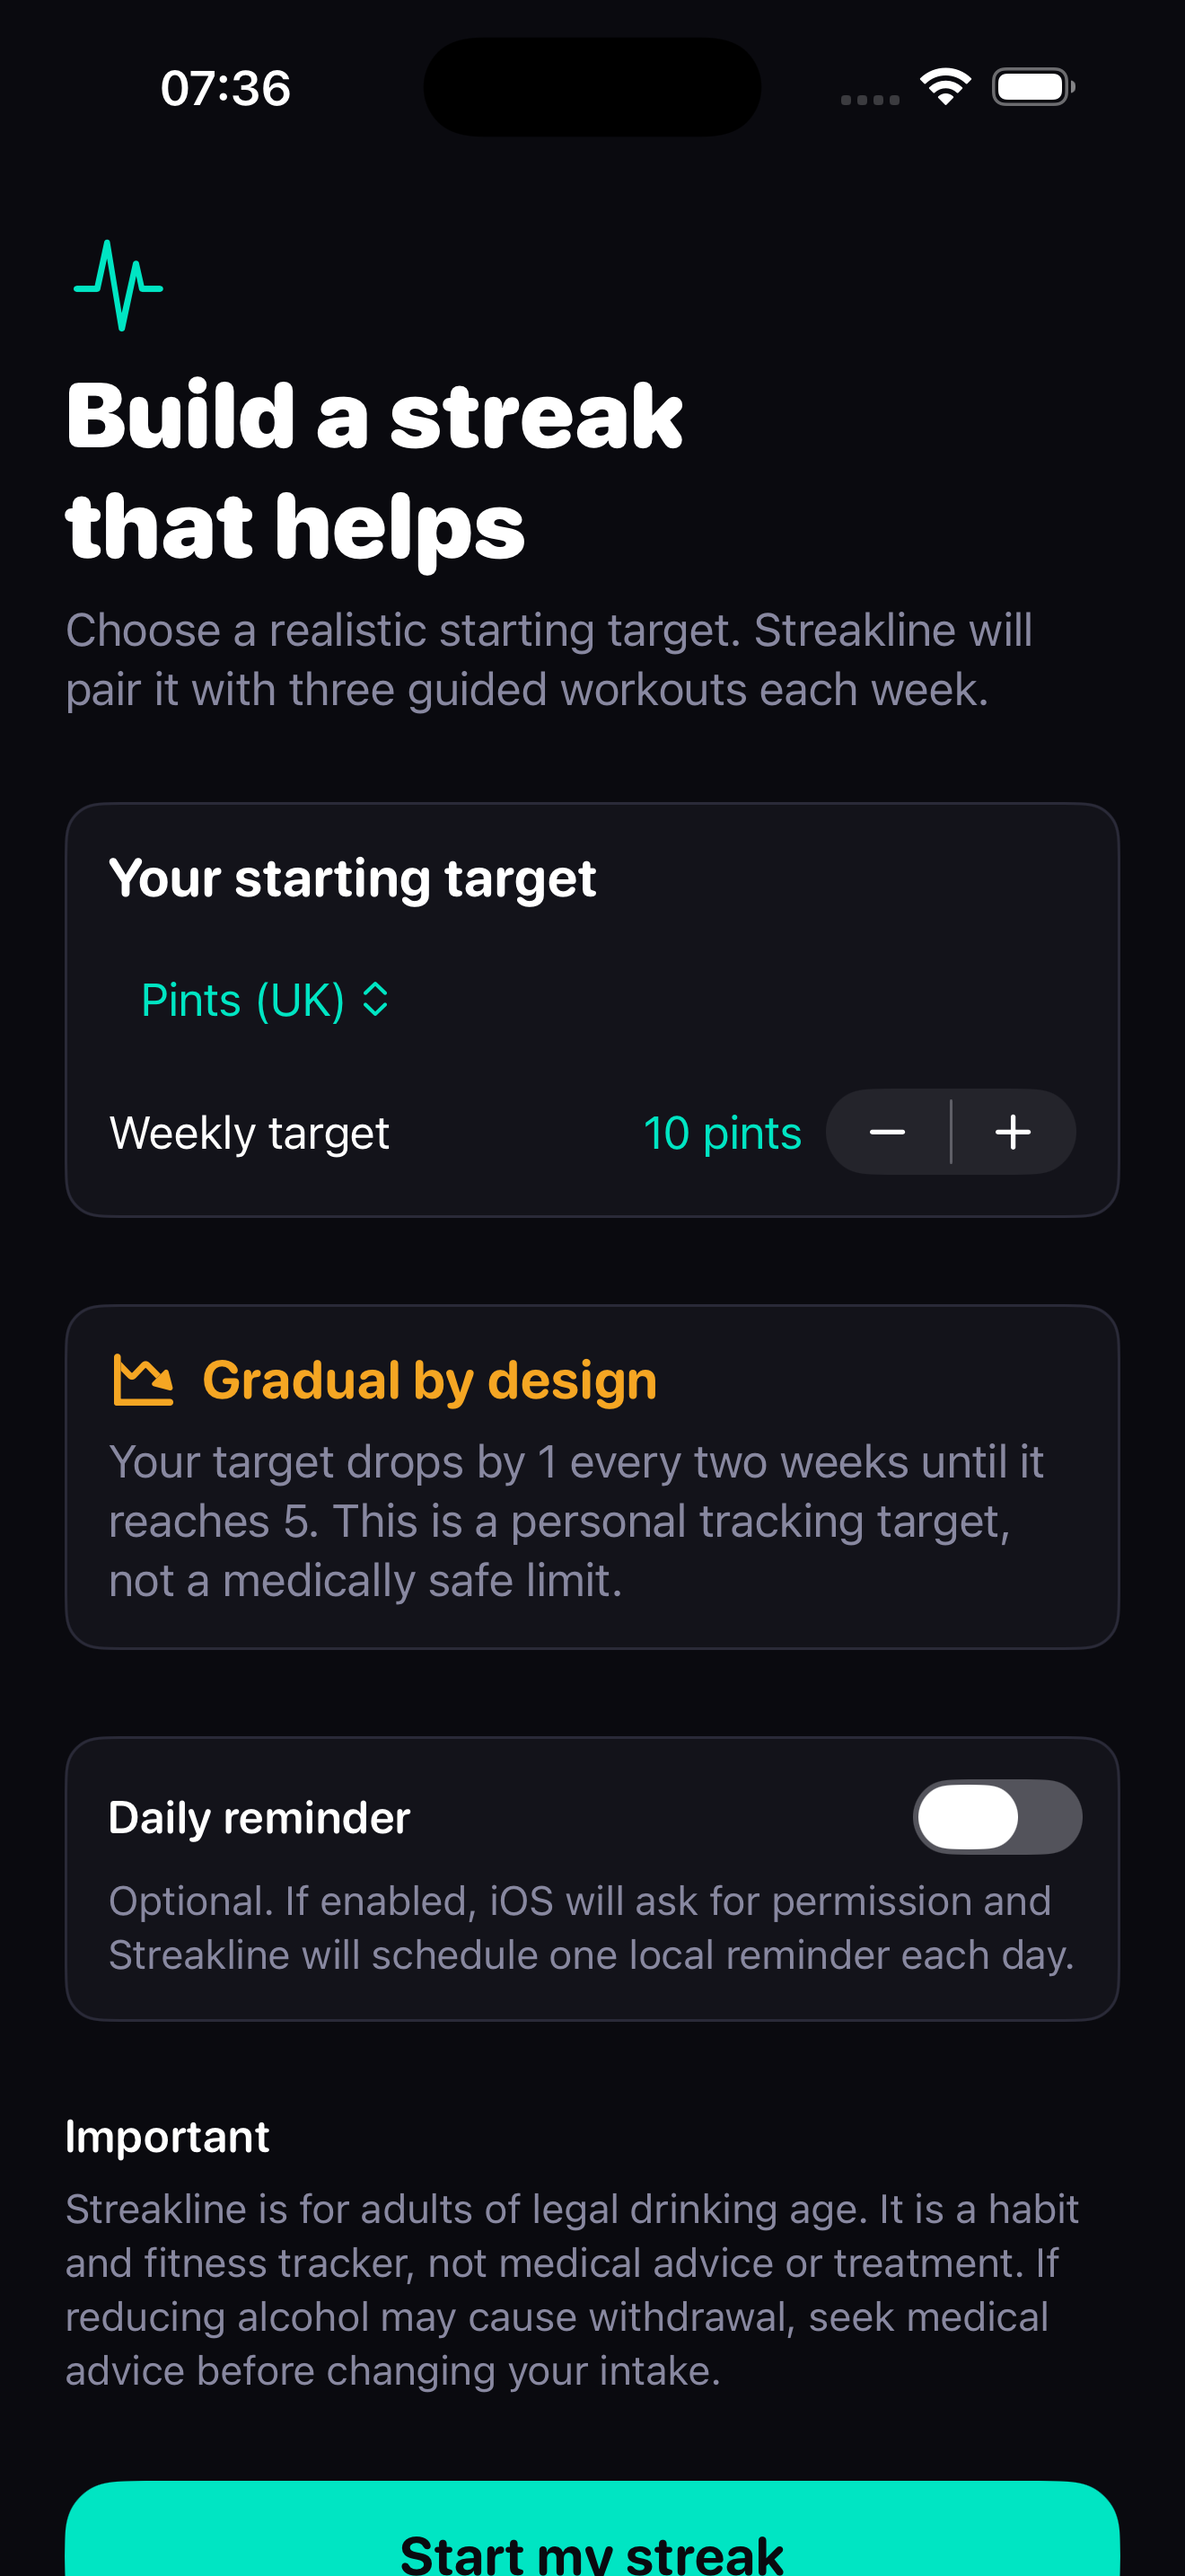
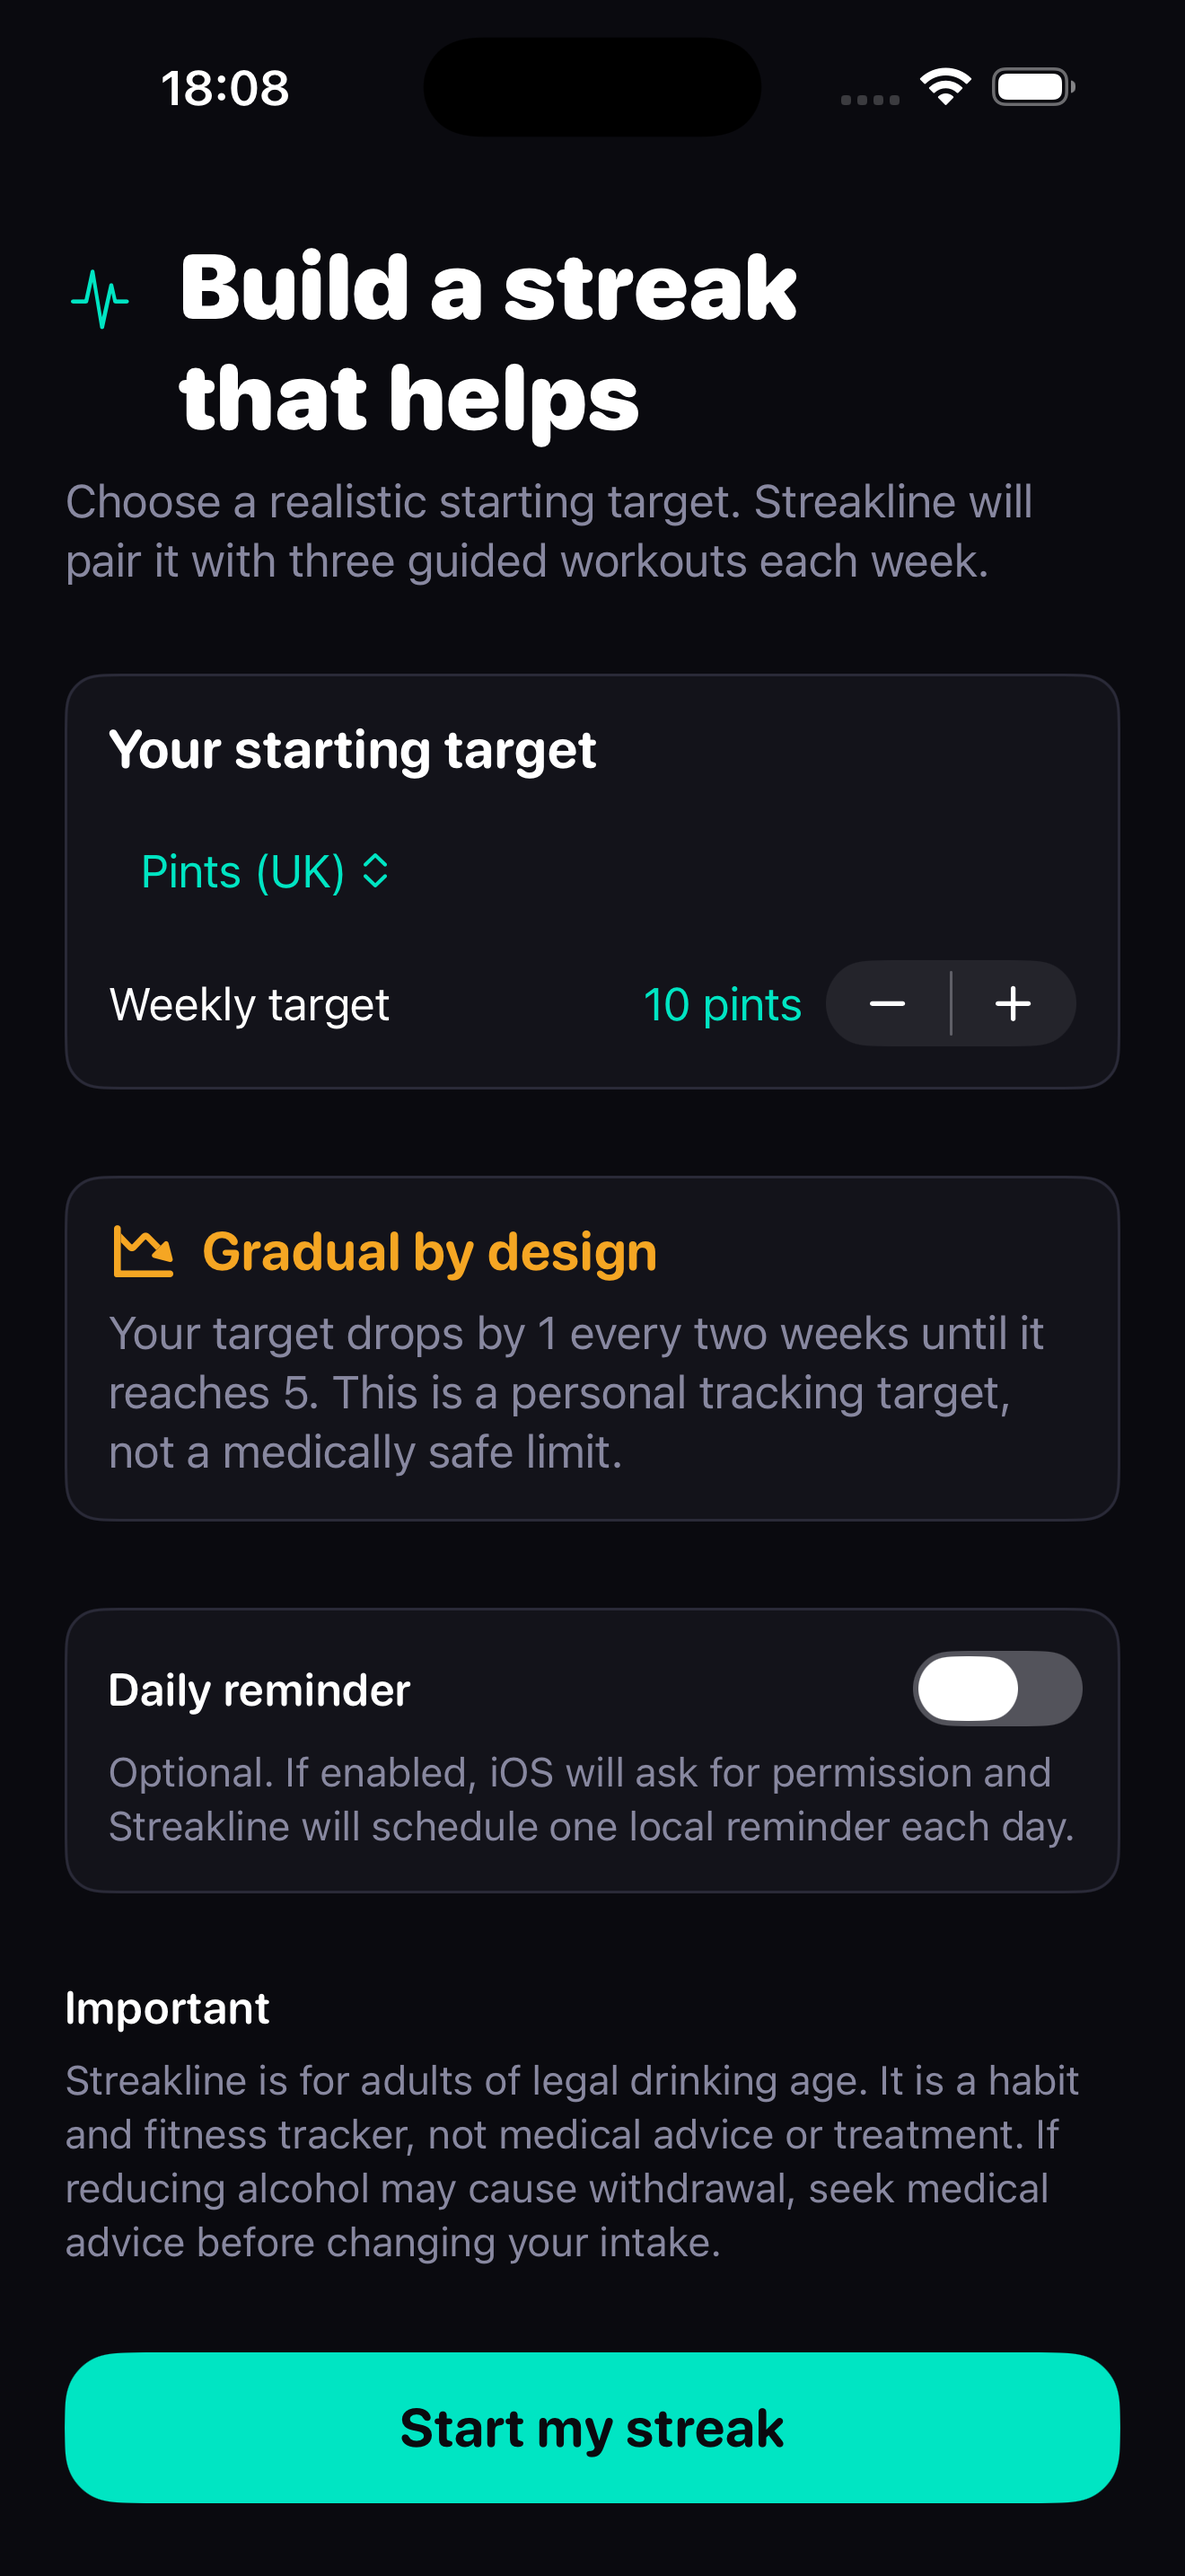
App store readiness

diff --git a/Streakline/Streakline/Views/OnboardingView.swift b/Streakline/Streakline/Views/OnboardingView.swift
@@ -38,13 +38,15 @@ struct OnboardingView: View {
 
     private var header: some View {
         VStack(alignment: .leading, spacing: DesignSystem.Spacing.sm) {
-            Image(systemName: "waveform.path.ecg")
-                .font(.largeTitle)
-                .foregroundStyle(DesignSystem.Colors.teal)
-                .accessibilityHidden(true)
-            Text("Build a streak that helps")
-                .font(DesignSystem.Typography.displayMedium)
-                .foregroundStyle(DesignSystem.Colors.textPrimary)
+            HStack(alignment: .firstTextBaseline, spacing: DesignSystem.Spacing.md) {
+                Image(systemName: "waveform.path.ecg")
+                    .font(.title2)
+                    .foregroundStyle(DesignSystem.Colors.teal)
+                    .accessibilityHidden(true)
+                Text("Build a streak that helps")
+                    .font(DesignSystem.Typography.displayMedium)
+                    .foregroundStyle(DesignSystem.Colors.textPrimary)
+            }
             Text("Choose a realistic starting target. Streakline will pair it with three guided workouts each week.")
                 .font(DesignSystem.Typography.body)
                 .foregroundStyle(DesignSystem.Colors.textSecondary)

diff --git a/docs/app-store/v1.0/review-notes.md b/docs/app-store/v1.0/review-notes.md
@@ -43,8 +43,8 @@ locally through iOS.
 
 ## Reviewer contact
 
-- **Contact name:** `[CONFIRM APPOINTED REVIEW CONTACT]`
-- **Email:** `support@streakline.fit`
-- **Phone:** `[CONFIRM REVIEW PHONE NUMBER]`
+- **Contact name:** Mihai Garda Popescu
+- **Email:** `mihai.garda.popescu@gmail.com`
+- **Phone:** `+353852832124`
 
 Verify the contact can answer during the review window before submission.

diff --git a/docs/app-store/v1.0/metadata.md b/docs/app-store/v1.0/metadata.md
@@ -5,11 +5,11 @@
 - **Name:** Streakline
 - **Platform:** iOS (iPhone)
 - **Version:** 1.0
-- **Build:** 1
+- **Build:** 3
 - **Bundle ID:** `com.mihaigarda.threshold`
 - **Primary category:** Health & Fitness
 - **Secondary category:** Lifestyle
-- **Copyright:** `2026 [CONFIRM LEGAL NAME]`
+- **Copyright:** `2026 Mihai Garda Popescu`
 
 ## Listing copy
 
